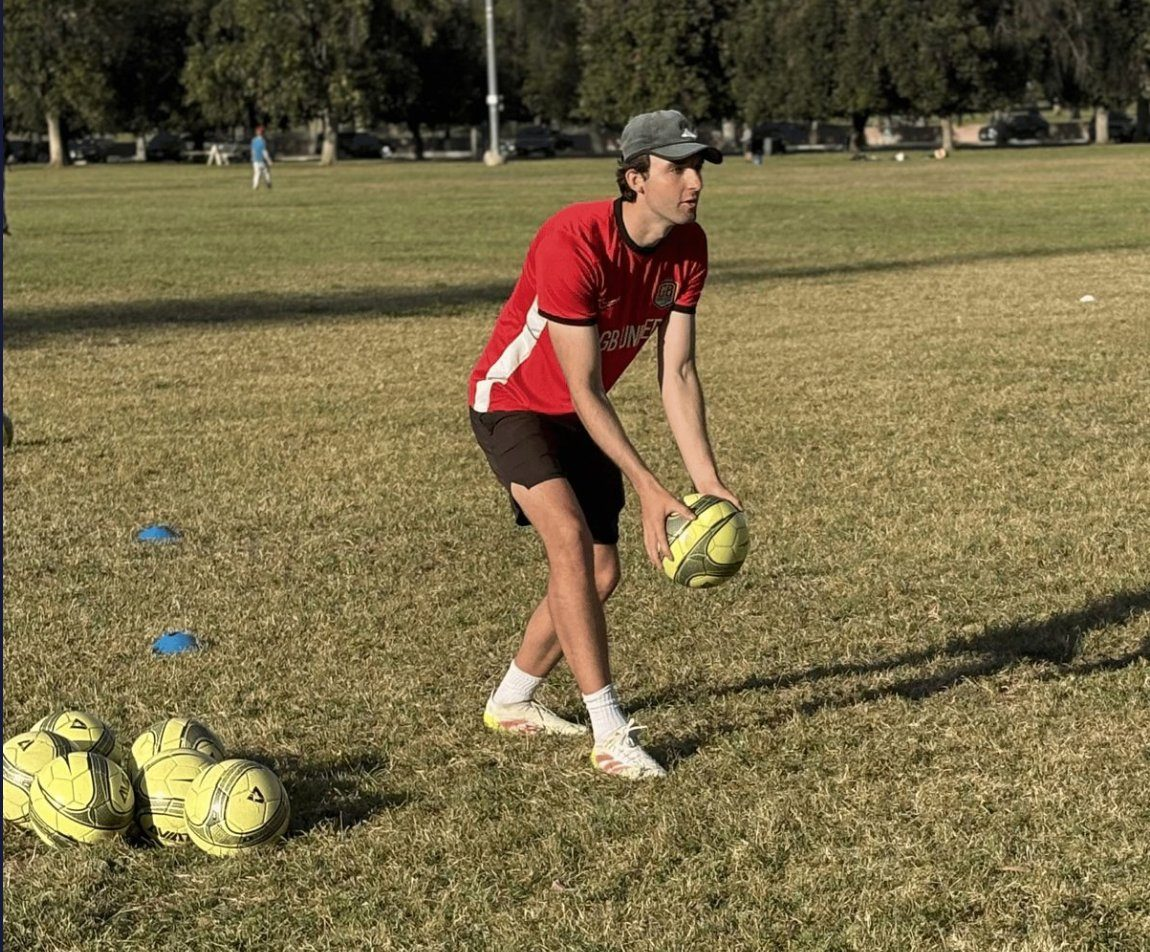
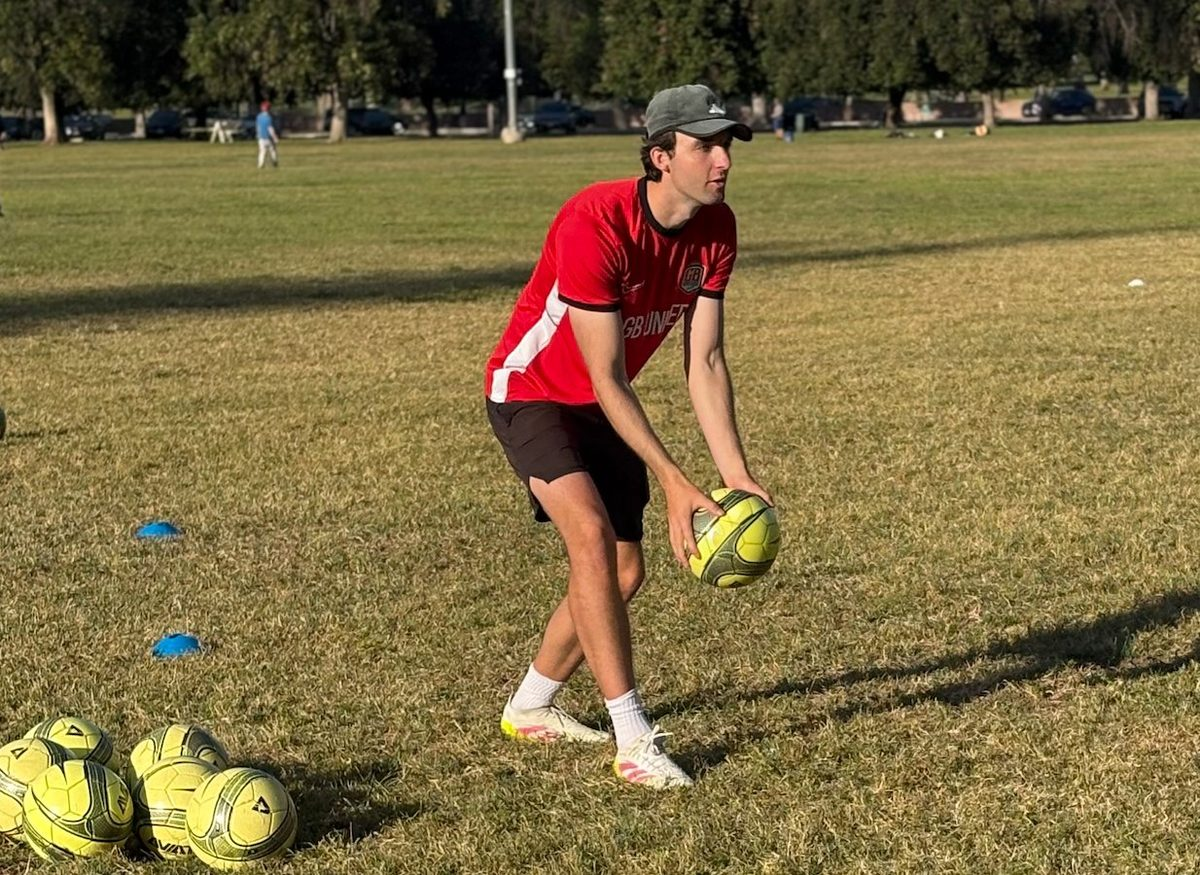
Add files via upload

diff --git a/training.html b/training.html
@@ -63,7 +63,7 @@
     <div class="trainer-card">
       <div class="trainer-role">Goalkeeper coach</div>
       <div class="trainer-name">Aidan Feuer</div>
-      <img src="aidan.jpg" alt="Aidan Feuer coaching" style="width:100%; aspect-ratio:4/3; object-fit:cover; object-position:center 70%; display:block; margin-bottom:20px;">
+      <img src="aidan.jpg" alt="Aidan Feuer coaching" style="width:100%; display:block; margin-bottom:20px;">
       <div class="trainer-tags">
         <span class="tag">Goalkeeping</span>
         <span class="tag">Bi-weekly sessions</span>
